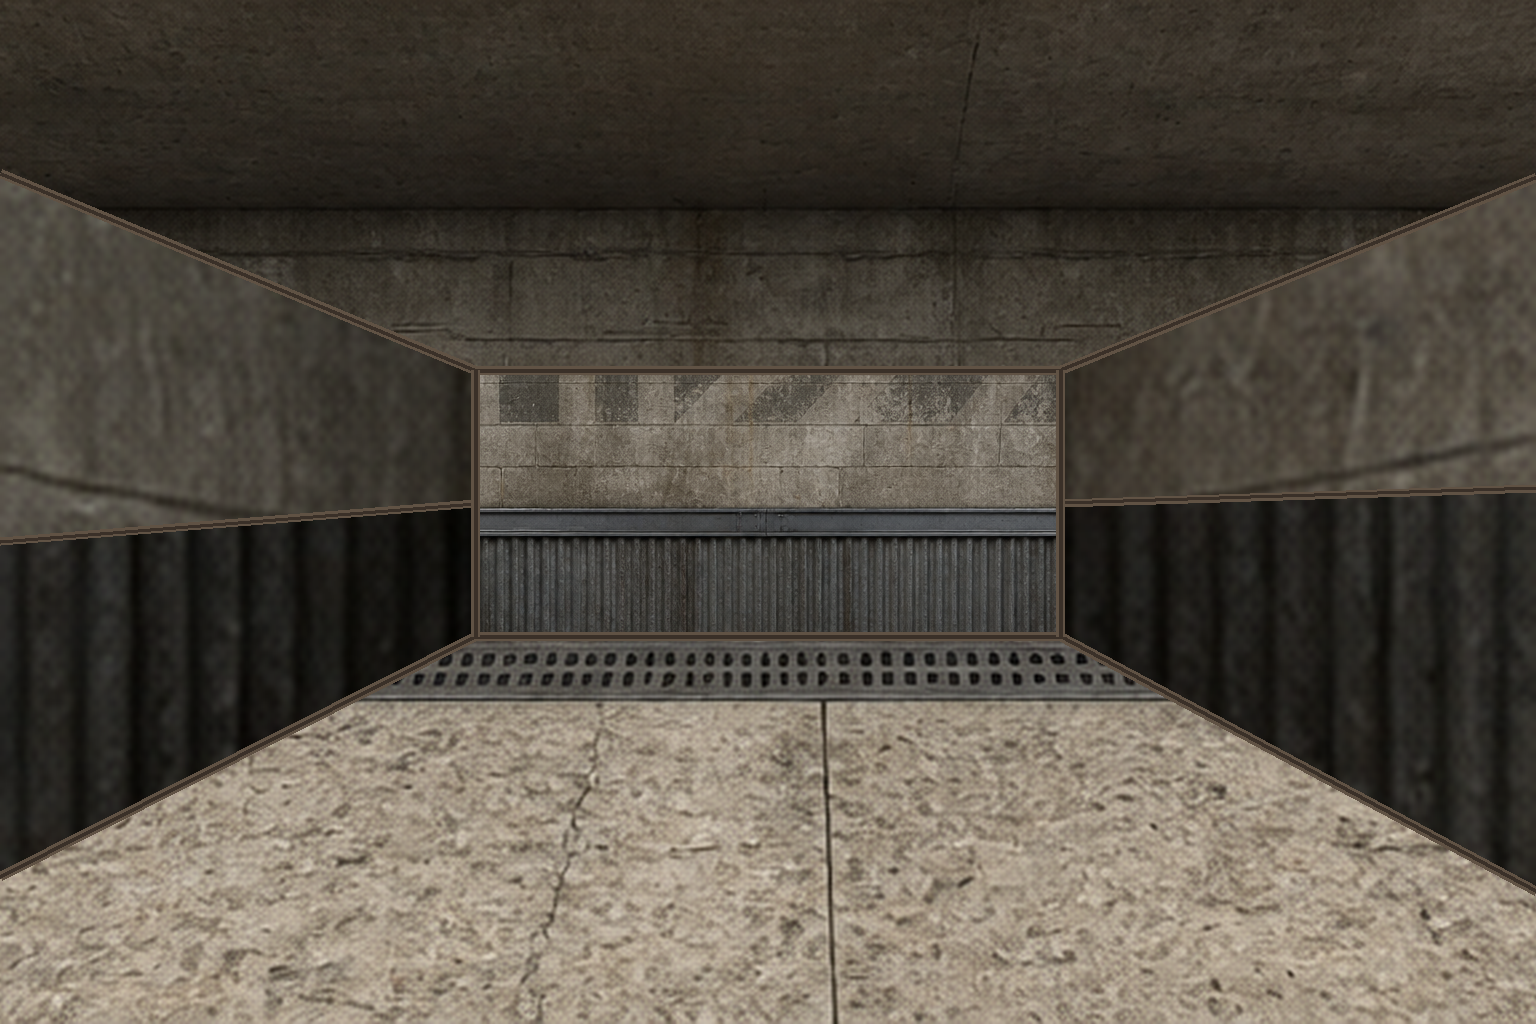
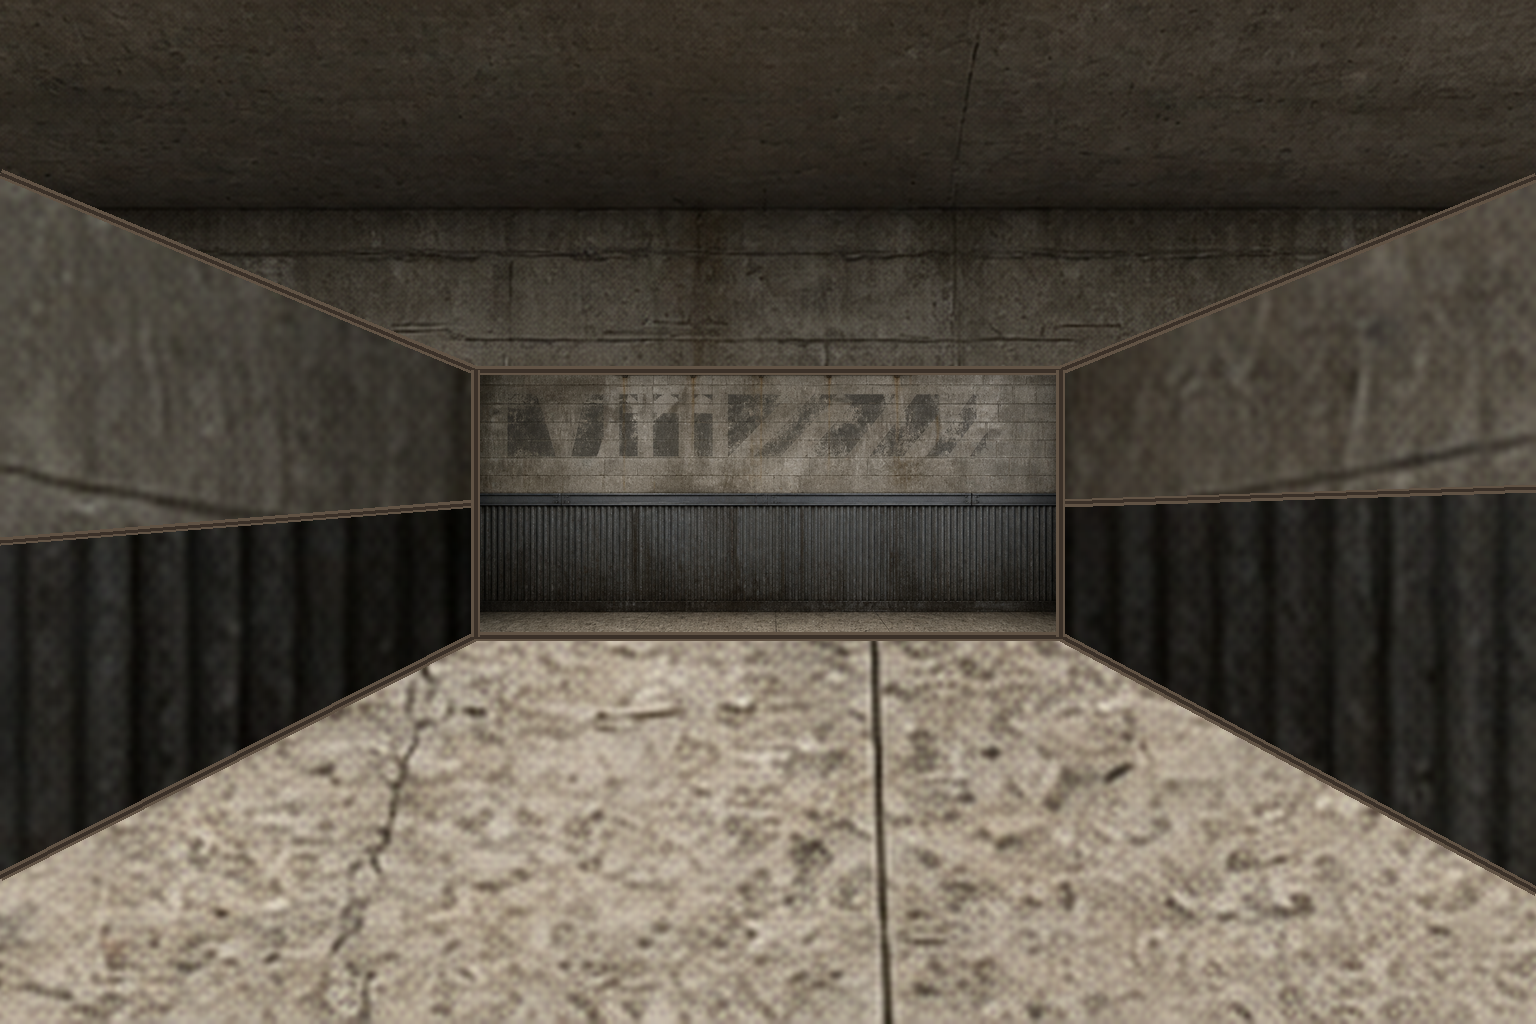
grow4 hardened: seed-cut far-wall fallback, floor band auto-skip, mid-artifact guard ported; noodle v4 guide law-clean
Claude-Session: https://claude.ai/code/session_01GC1AH66NQ1uRMsBFmesias

Changed region(s): [[0.0, 0.3438, 1.0, 1.0]]

diff --git a/tools/deep-draft.py b/tools/deep-draft.py
@@ -1379,7 +1379,20 @@ def grow4(args):
     cover("ceiling", (0, 0, W, min(C[0][1], C[1][1]) - JM),
           [(0, 0), (W, 0), (W, tline(1, W)), D[1], D[0], (0, tline(0, 0))],
           (0, 0, W, max(tline(0, 0), tline(1, W), D[0][1], D[1][1])), "top")
-    cover("floor", (0, max(C[2][1], C[3][1]) + JM, W, H),
+    # the floor source must not carry a unique horizontal feature (a drain, a
+    # threshold) into the middle of the room: start below the strongest band
+    # if one dominates the strip (mid-artifact law), or where the args say.
+    fy0 = args.get("floor_src_y0")
+    if fy0 is None:
+        fy0 = max(C[2][1], C[3][1]) + JM
+        gseed0 = np.asarray(base.convert("L")).astype(float)
+        strip = np.abs(np.diff(gseed0[int(fy0):H - 8, int(x0) + 40:int(x1) - 40], axis=0)).mean(axis=1)
+        if len(strip) > 20:
+            med = float(np.median(strip)); mx = float(strip.max())
+            if mx > max(9.0, 5.0 * (med + 0.3)):
+                band = int(fy0) + int(np.argmax(strip))
+                fy0 = min(H - 60, band + 40)
+    cover("floor", (0, fy0, W, H),
           [(0, H), (W, H), (W, tline(3, W)), D[3], D[2], (0, tline(2, 0))],
           (0, min(tline(2, 0), tline(3, W), D[2][1], D[3][1]), W, H), "bottom")
     # side walls split at the CONVERGING DADO (spec rule 7: geometry stated by
@@ -1445,6 +1458,23 @@ def grow4(args):
         ImageDraw.Draw(mask).rectangle([bx0, by0, bx1, by1], fill=255)
         canvas.paste(layer, (0, 0), mask)
         report["far_wall"] = {"scale": round(s, 4), "from": "close-asset"}
+    else:
+        # no close asset: the seed's OWN wall, cut at its detected rows and
+        # cover-fit to the deep rect (never left at near scale)
+        fy0 = int(round(min(C[0][1], C[1][1])))
+        fy1 = int(round(max(C[2][1], C[3][1])))
+        fsrc = base.crop((x0, max(0, fy0), x1, min(H, fy1)))
+        sw, sh = fsrc.size
+        s = max((bx1 - bx0) / sw, (by1 - by0) / sh)
+        pw, ph = max(1, round(sw * s)), max(1, round(sh * s))
+        piece = fsrc.resize((pw, ph), Image.LANCZOS)
+        px, py = (bx0 + bx1) / 2.0 - pw / 2.0, (by0 + by1) / 2.0 - ph / 2.0
+        layer = Image.new("RGB", (W, H), (0, 0, 0))
+        layer.paste(piece, (int(round(px)), int(round(py))))
+        mask = Image.new("L", (W, H), 0)
+        ImageDraw.Draw(mask).rectangle([bx0, by0, bx1, by1], fill=255)
+        canvas.paste(layer, (0, 0), mask)
+        report["far_wall"] = {"scale": round(s, 4), "from": "seed-cut"}
     # PERMANENT architecture on the exact geometry: soft occlusion shadow under
     # a narrow dark seam, centered on every boundary (spec rule 2)
     SHADOW = (96, 82, 68); SEAM = (58, 48, 40)
@@ -1460,8 +1490,130 @@ def grow4(args):
     seam(lw_a, lw_b); seam(rw_a, rw_b)                   # the converging dado caps
     seam((bx0, by0), (bx1, by0)); seam((bx0, by1), (bx1, by1))
     seam((bx0, by0), (bx0, by1)); seam((bx1, by0), (bx1, by1))
+    cg = np.asarray(canvas.convert("L")).astype(float)
+    def band_guard(y_lo, y_hi, name):
+        y_lo, y_hi = int(max(1, y_lo)), int(min(H - 1, y_hi))
+        if y_hi - y_lo < 6:
+            return {"band": name, "ok": True}
+        seg = cg[y_lo:y_hi, int(x0) + 40:int(x1) - 40]
+        g_ = np.abs(np.diff(seg, axis=0)).mean(axis=1)
+        med = float(np.median(g_)); mx = float(g_.max())
+        return {"band": name, "max": round(mx, 2), "median": round(med, 2),
+                "ok": bool(mx <= max(9.0, 5.0 * (med + 0.3)))}
+    guards = [band_guard(8, min(C[0][1], C[1][1]) - 8, "ceiling_front"),
+              band_guard(max(C[2][1], C[3][1]) + 8, H - 8, "floor_front")]
+    if any(not g_["ok"] for g_ in guards):
+        canvas.save(args["out"] + ".breach.png", "PNG")
+        print(json.dumps({"ok": False, "mode": "grow4",
+                          "error": "mid-room artifact guard breached", "guards": guards}))
+        return
     canvas.save(args["out"], "PNG")
-    print(json.dumps({"ok": True, "mode": "grow4", "elements": report,
+    print(json.dumps({"ok": True, "mode": "grow4", "elements": report, "guards": guards,
+                      "deep_rect": [round(bx0), round(by0), round(bx1), round(by1)]}))
+
+def grow5(args):
+    """grow4 with PERSPECTIVE-CORRECT pre-fill for ceiling and floor [Kabe,
+    2026-08-31: "those rooms look like Escher paintings" - uniform stretch
+    keeps near texture scale at depth; the spec demands diminishing scale].
+    Each band pixel samples the seed's own plane along its ray at true 1/z
+    recession, tiling in depth; sides keep the dado split; the far wall stays
+    the locked asset; seams stay physical."""
+    import numpy as np
+    args2 = dict(args)
+    out_path = args["out"]
+    args2["out"] = out_path + ".g4tmp.png"
+    grow4(args2)
+    base = Image.open(args["base_png"]).convert("RGB")
+    canvas = Image.open(args2["out"]).convert("RGB")
+    os_remove = __import__("os").remove
+    W, H = base.size
+    src_a = np.asarray(base).astype(np.float32)
+    can_a = np.asarray(canvas).astype(np.float32).copy()
+    bb = args["base_box"]
+    x0, x1 = int(round(bb["x0"])), int(round(bb["x1"]))
+    det, corners, _mis = _detect_corner_lines(
+        base, x0, x1, float(bb.get("yc")) if "yc" in bb else None,
+        float(bb.get("yf")) if "yf" in bb else None)
+    vx, vy = args.get("vp", [768.0, 526.1])
+    k = float(args["depth_ratio"])
+    C = [(float(x0), det[0][0]), (float(x1), det[1][0]),
+         (float(x0), det[2][0]), (float(x1), det[3][0])]
+    db = args.get("declared_box", {})
+    dyc = float(db.get("yc", bb.get("yc", C[0][1])))
+    dyf = float(db.get("yf", bb.get("yf", C[2][1])))
+    Cd = [(float(x0), dyc), (float(x1), dyc), (float(x0), dyf), (float(x1), dyf)]
+    D = [(vx + (c_[0] - vx) * k, vy + (c_[1] - vy) * k) for c_ in Cd]
+    ys, xs = np.mgrid[0:H, 0:W].astype(np.float64)
+    def persp_fill(sign):
+        """sign=-1 ceiling (above vp), +1 floor. Band: between the close
+        junction rows and the deep rect edge, full width between the corner
+        rays; sample the seed's own plane at u_s = u_t * r^n."""
+        if sign < 0:
+            band_lo = min(C[0][1], C[1][1]); band_hi = max(D[0][1], D[1][1])
+            u_src_min = vy - band_lo          # far edge of source texture
+            u_src_max = vy - 6.0              # rows near frame top
+        else:
+            band_lo = min(D[2][1], D[3][1]); band_hi = max(C[2][1], C[3][1])
+            u_src_min = band_hi - vy
+            u_src_max = (H - 6.0) - vy
+        if u_src_min <= 4 or u_src_max <= u_src_min + 4:
+            return
+        r = u_src_max / u_src_min
+        u_t = (vy - ys) if sign < 0 else (ys - vy)
+        in_band = (ys >= band_lo) & (ys <= band_hi) & (u_t > 4)
+        # inside the corner rays only (between left and right ray at this row)
+        # left ray: from C0/C2 to D0/D2
+        def ray_x(cy, c_, d_):
+            t = (ys - c_[1]) / max(d_[1] - c_[1], 1e-6) if d_[1] != c_[1] else 0
+            return c_[0] + (d_[0] - c_[0]) * np.clip(t, 0, 1)
+        if sign < 0:
+            lxr = ray_x(ys, C[0], D[0]); rxr = ray_x(ys, C[1], D[1])
+        else:
+            lxr = ray_x(ys, C[2], D[2]); rxr = ray_x(ys, C[3], D[3])
+        in_band &= (xs >= lxr) & (xs <= rxr)
+        u_s = np.where(in_band, u_t, 1.0).astype(np.float64)
+        # tile: multiply by r until inside [u_src_min, u_src_max]
+        for _ in range(12):
+            need = u_s < u_src_min
+            if not need.any():
+                break
+            u_s = np.where(need, u_s * r, u_s)
+        u_s = np.clip(u_s, u_src_min, u_src_max)
+        scale = u_s / np.maximum(u_t, 1e-6)
+        sx = vx + (xs - vx) * scale
+        sy = vy - u_s if sign < 0 else vy + u_s
+        sx = np.clip(sx, 0, W - 2); sy = np.clip(sy, 0, H - 2)
+        xi0 = sx.astype(int); yi0 = sy.astype(int)
+        fx = sx - xi0; fy = sy - yi0
+        for ch in range(3):
+            s = src_a[:, :, ch]
+            v = (s[yi0, xi0] * (1 - fx) * (1 - fy) + s[yi0, xi0 + 1] * fx * (1 - fy)
+                 + s[yi0 + 1, xi0] * (1 - fx) * fy + s[yi0 + 1, xi0 + 1] * fx * fy)
+            can_a[:, :, ch] = np.where(in_band, v, can_a[:, :, ch])
+    persp_fill(-1)
+    persp_fill(+1)
+    out = Image.fromarray(np.clip(can_a, 0, 255).astype(np.uint8))
+    # redraw the seams over the refilled bands
+    from PIL import ImageDraw
+    dd = ImageDraw.Draw(out)
+    SHADOW = (96, 82, 68); SEAM = (58, 48, 40)
+    def seam(a_, b_):
+        dd.line([a_, b_], fill=SHADOW, width=9)
+        dd.line([a_, b_], fill=SEAM, width=4)
+    def tline(i, x):
+        m = (vy - C[i][1]) / (vx - C[i][0])
+        return C[i][1] + m * (x - C[i][0])
+    edges = [(0.0, tline(0, 0)), (float(W), tline(1, W)),
+             (0.0, tline(2, 0)), (float(W), tline(3, W))]
+    for e_, d_ in zip(edges, D):
+        seam(e_, d_)
+    bx0, by0 = min(D[0][0], D[2][0]), min(D[0][1], D[1][1])
+    bx1, by1 = max(D[1][0], D[3][0]), max(D[2][1], D[3][1])
+    seam((bx0, by0), (bx1, by0)); seam((bx0, by1), (bx1, by1))
+    seam((bx0, by0), (bx0, by1)); seam((bx1, by0), (bx1, by1))
+    out.save(out_path, "PNG")
+    os_remove(args2["out"])
+    print(json.dumps({"ok": True, "mode": "grow5",
                       "deep_rect": [round(bx0), round(by0), round(bx1), round(by1)]}))
 
 def main():
@@ -1488,6 +1640,8 @@ def main():
         return reverse3(args)
     if args.get("mode") == "grow4":
         return grow4(args)
+    if args.get("mode") == "grow5":
+        return grow5(args)
     if args.get("mode") == "cutback":
         return cutback(args)
     close = Image.open(args["close_png"]).convert("RGB")
